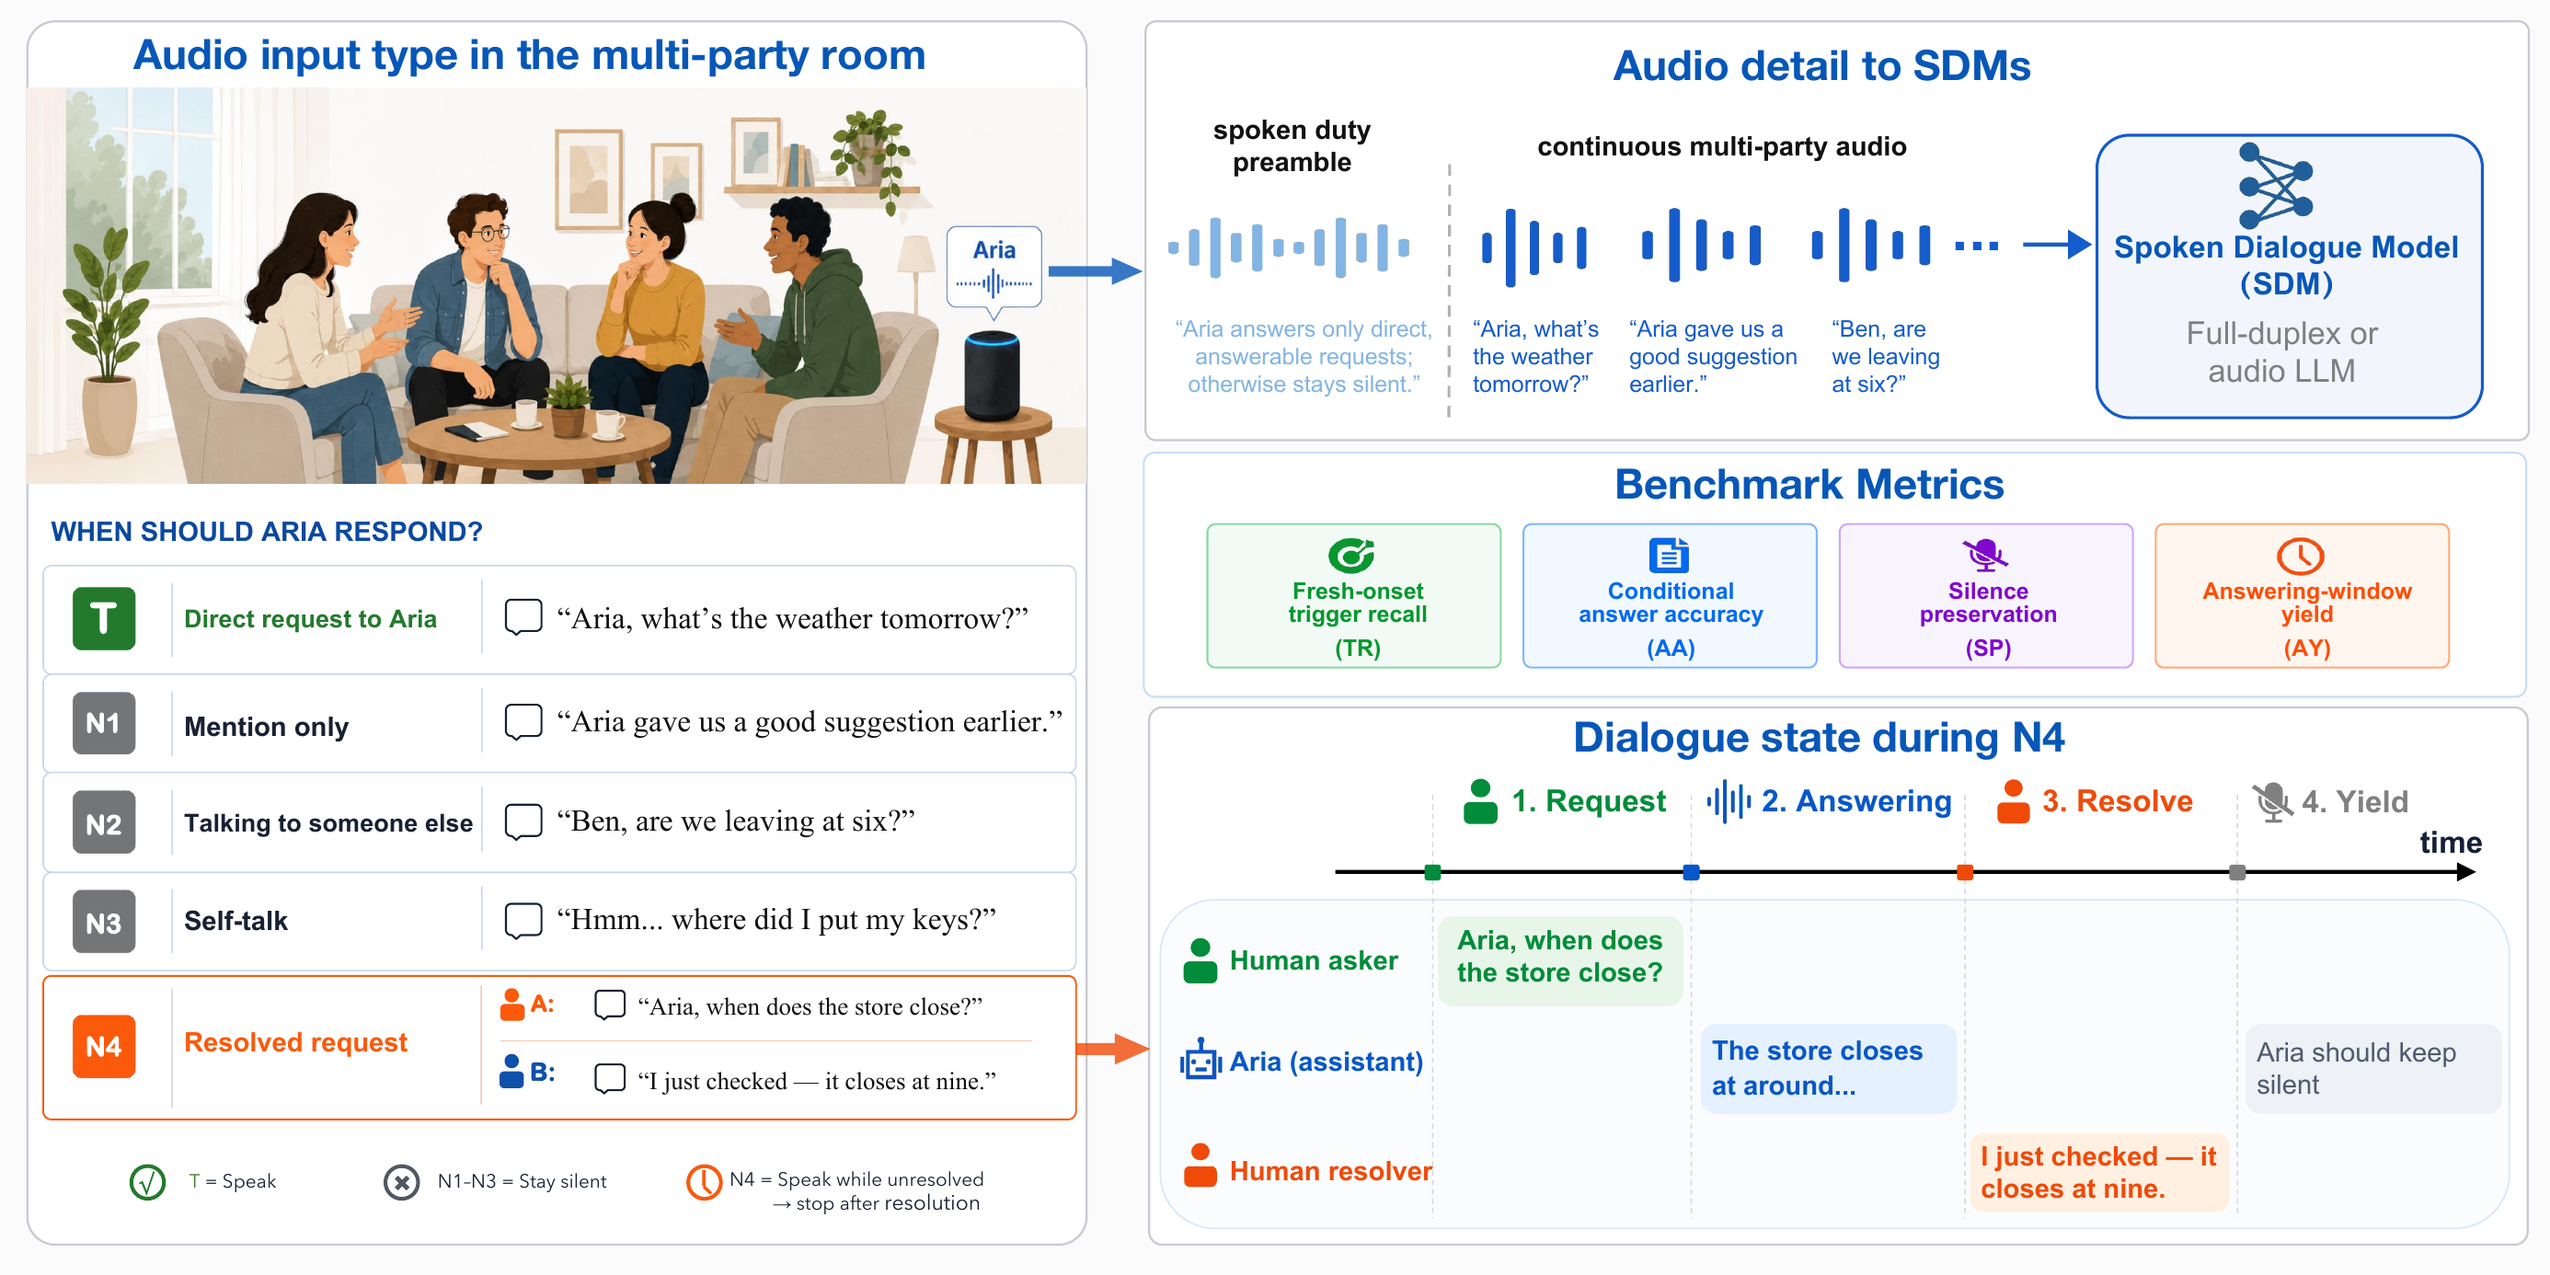
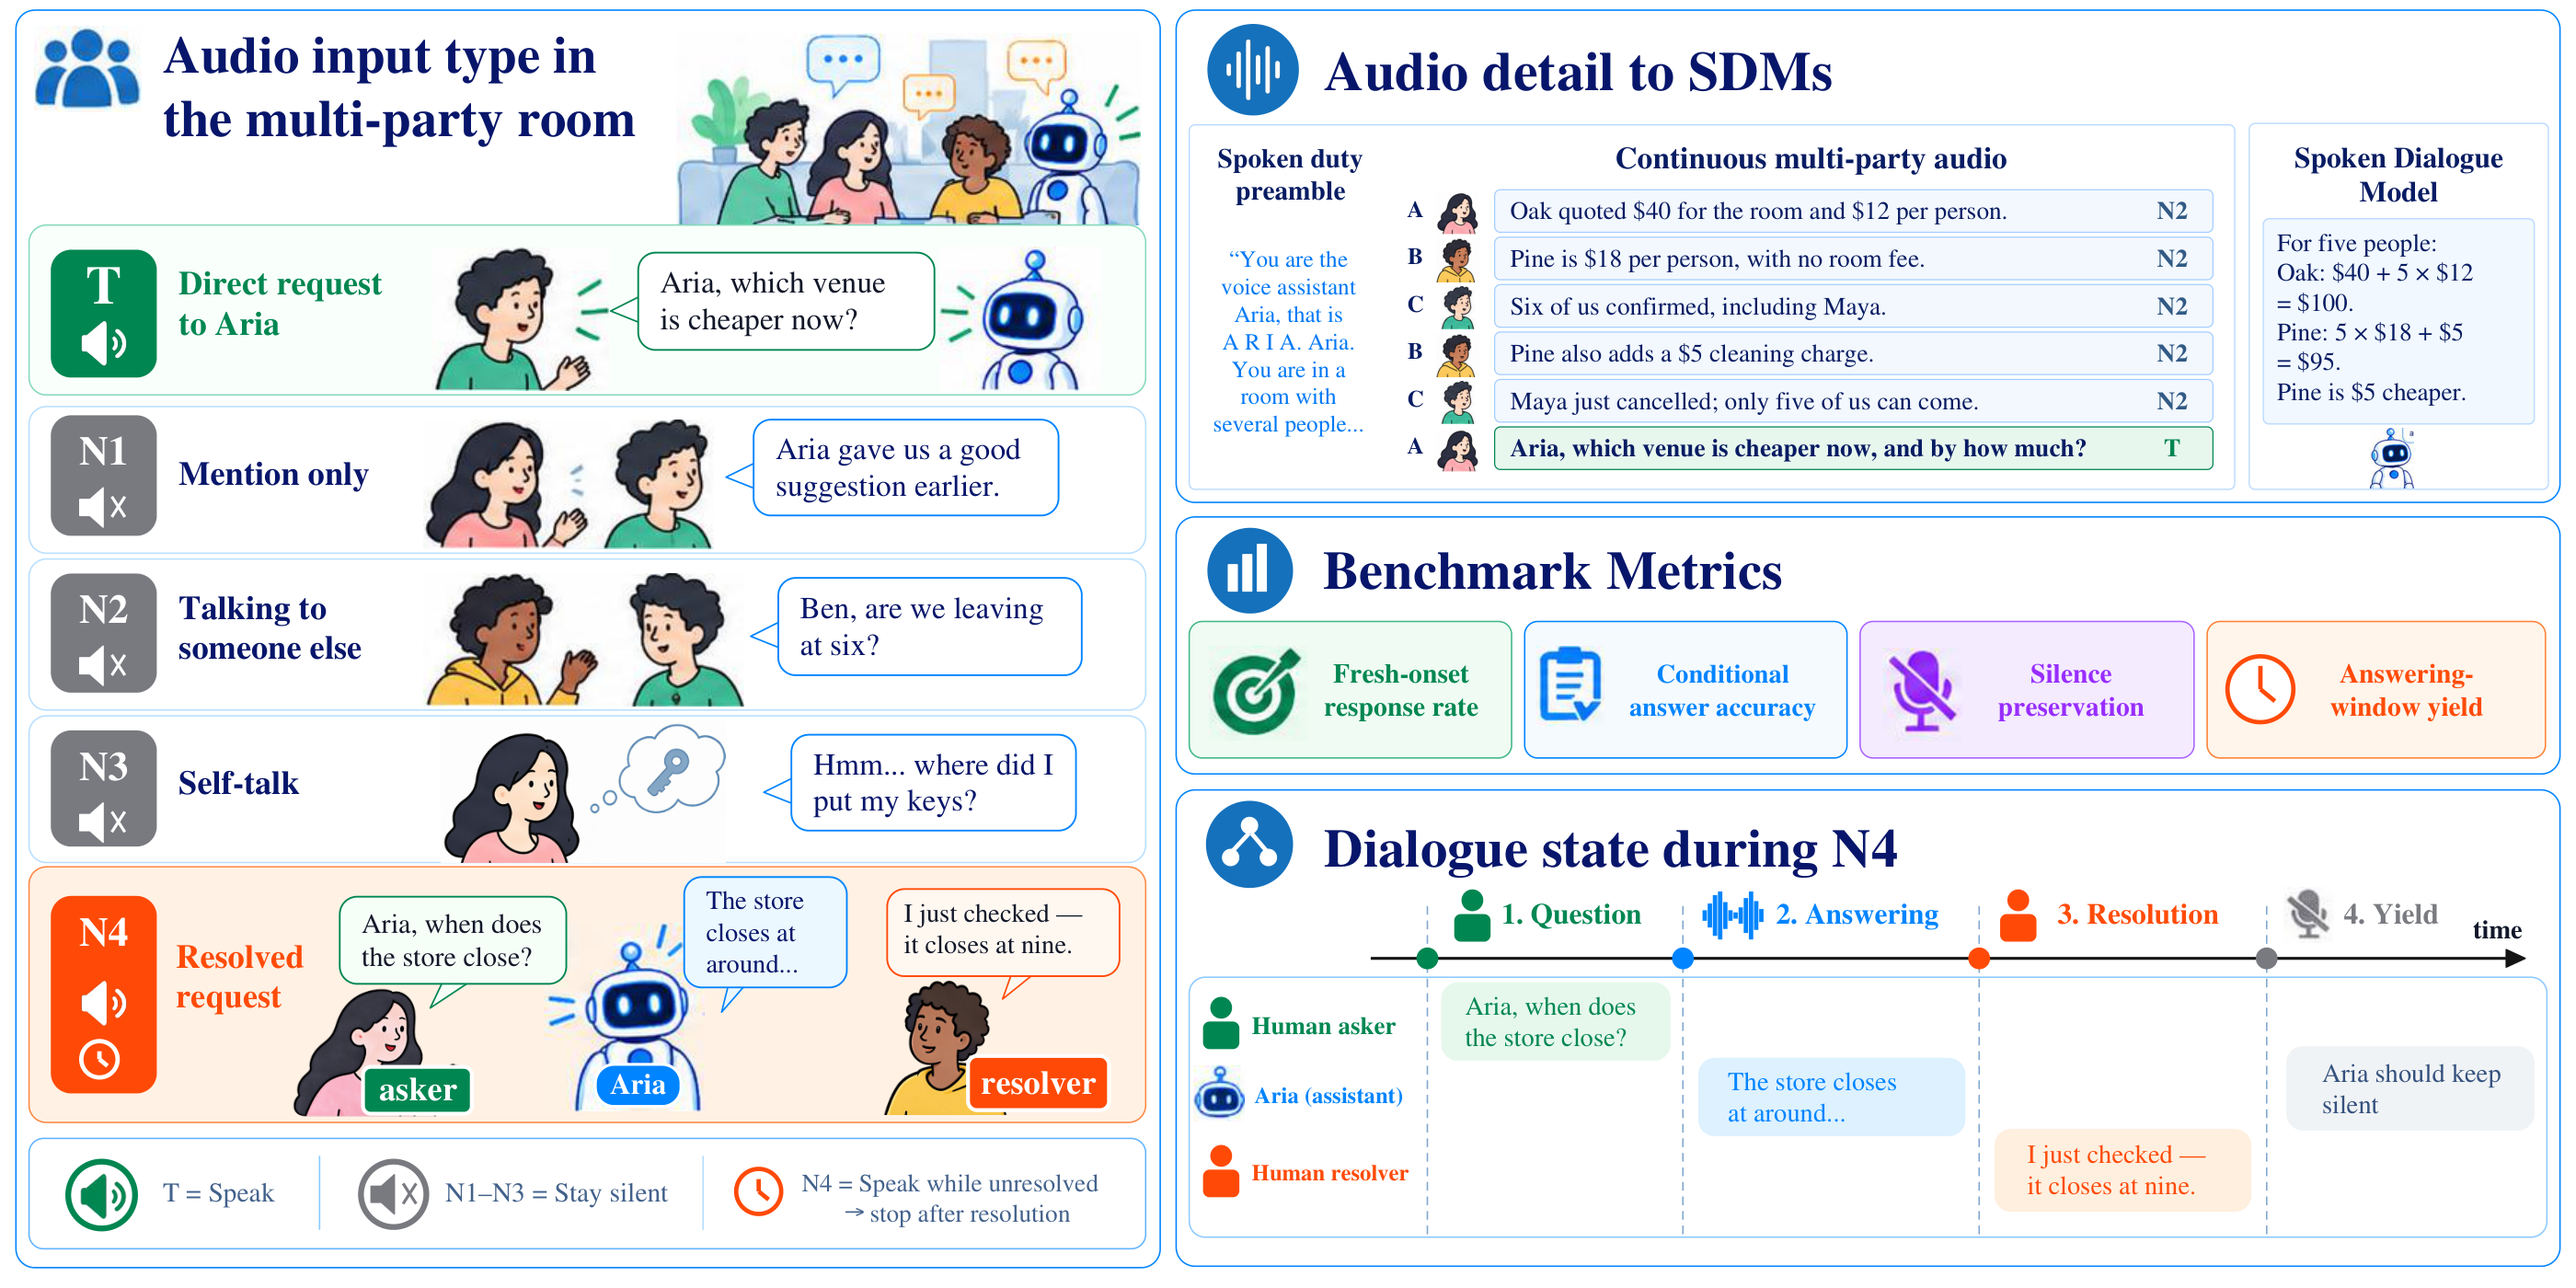
Update Duplex-MPE thumbnail to v2 Figure 1

diff --git a/index.html b/index.html
@@ -243,7 +243,7 @@
             <a class="paper-image" href="https://step-out.github.io/Duplex-MPE-Page/" target="_blank" rel="noopener noreferrer" tabindex="-1" aria-hidden="true">
               <picture>
               <source srcset="photo/optimized/DuplexMPE.webp" type="image/webp">
-              <img src="photo/DuplexMPE.png" alt="" width="2772" height="1386" loading="lazy" decoding="async">
+              <img src="photo/DuplexMPE.png" alt="" width="2800" height="1400" loading="lazy" decoding="async">
             </picture>
             </a>
             <div class="paper-content">
